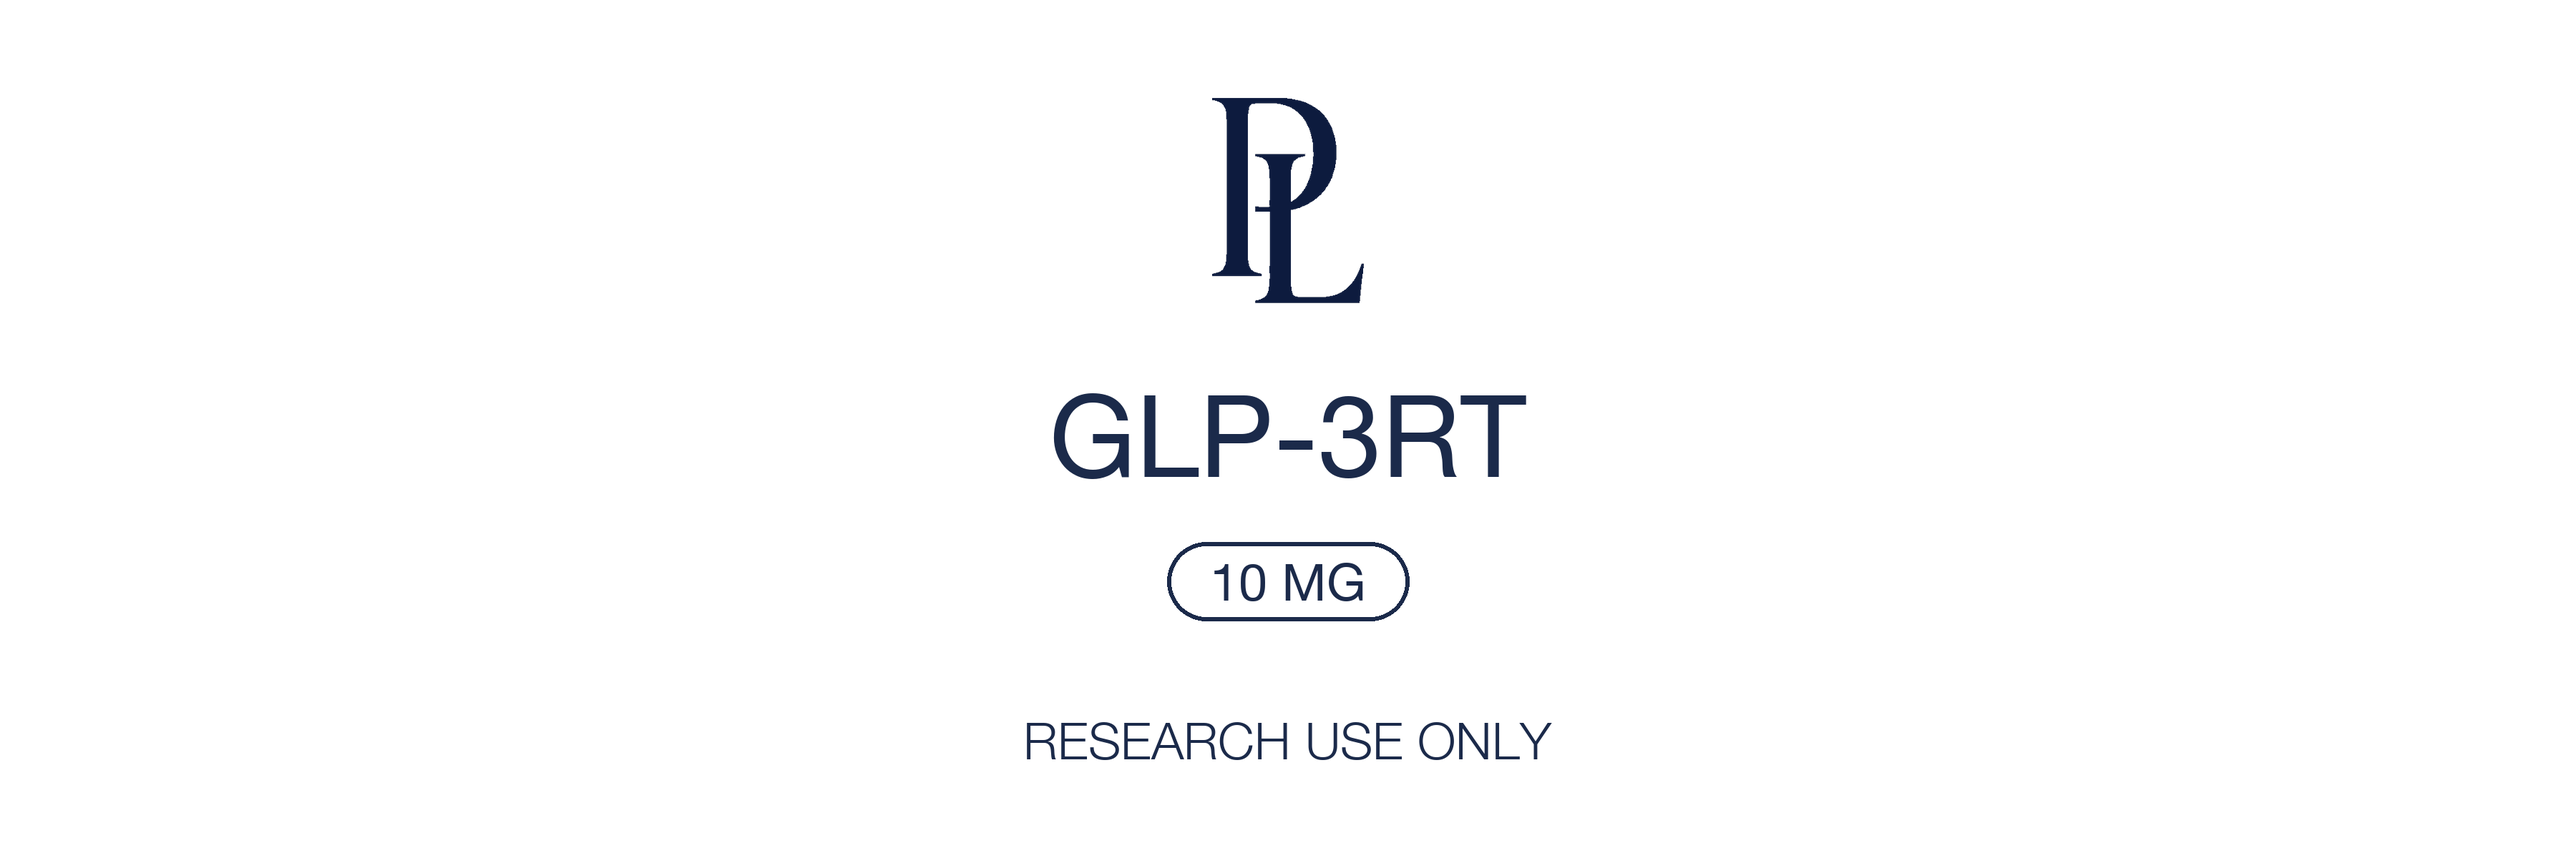
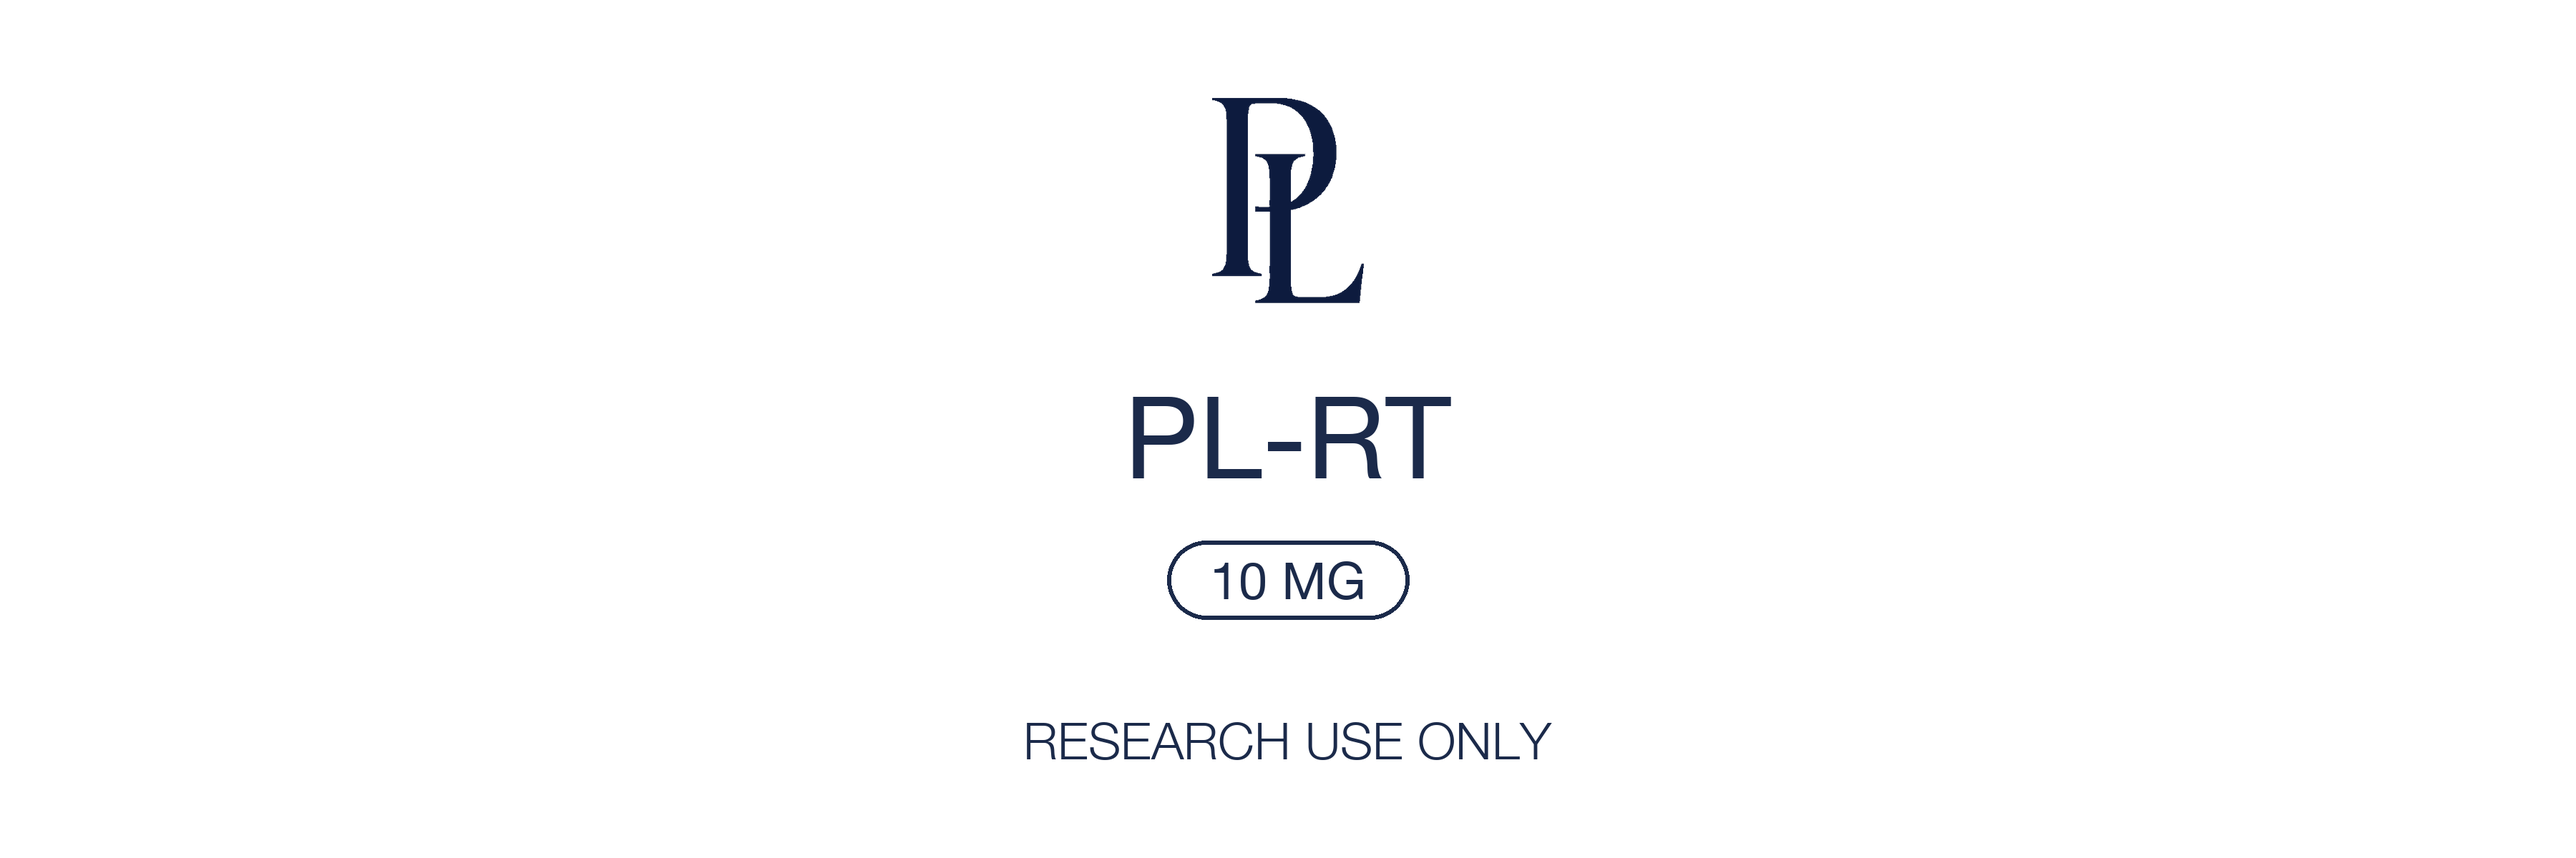
fix: rename GLP-3RT to PL-RT — slug, label, and code mappings

Changed region(s): [[0.4044, 0.4625, 0.5911, 0.555], [0.4667, 0.6167, 0.5289, 0.74]]

diff --git a/src/app/products/[slug]/page.tsx b/src/app/products/[slug]/page.tsx
@@ -81,6 +81,7 @@ export default async function ProductPage({
                     "reconstitution": "/3d/label-bacwater.png",
                     "glp-3-10mg": "/3d/label-glp3rt.png",
                     "glp-3rt": "/3d/label-glp3rt.png",
+                    "pl-rt": "/3d/label-glp3rt.png",
                     "bpc-157": "/3d/label-bpc157.png",
                     "bpc157": "/3d/label-bpc157.png",
                     "tb-500": "/3d/label-tb500.png",

diff --git a/src/lib/coaDirectory.ts b/src/lib/coaDirectory.ts
@@ -46,7 +46,7 @@ export type CoaEntry = {
 
 export const COA_DIRECTORY: CoaEntry[] = [
   {
-    slug: "glp-3-10mg",
+    slug: "pl-rt",
     lab: "BT Labs · 2026",
     title: "RT 10MG",
     purity: "≥99%",

diff --git a/scripts/generate-labels.py b/scripts/generate-labels.py
@@ -110,7 +110,7 @@ def draw_label(filename, product_name, dosage):
     print(f"Saved: {out}")
 
 PRODUCTS = [
-    ("label-glp3rt.png",      "GLP-3RT",               "10 MG"),
+    ("label-glp3rt.png",      "PL-RT",                 "10 MG"),
     ("label-bpc157.png",      "BPC-157",               "10 MG"),
     ("label-tb500.png",       "TB-500",                "10 MG"),
     ("label-cjc1295.png",     "CJC-1295 + IPAMORELIN", "5MG / 5MG"),
